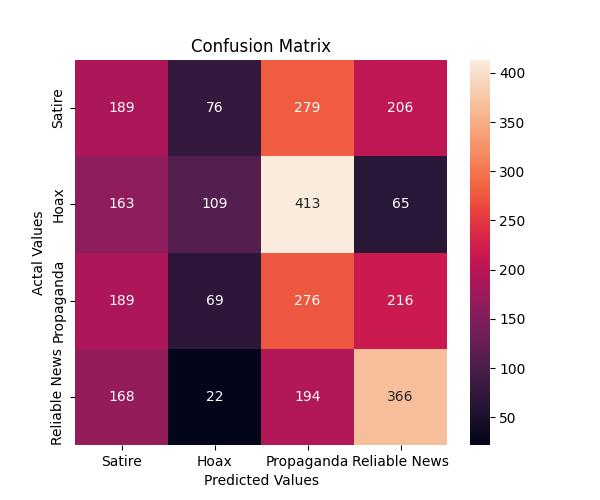
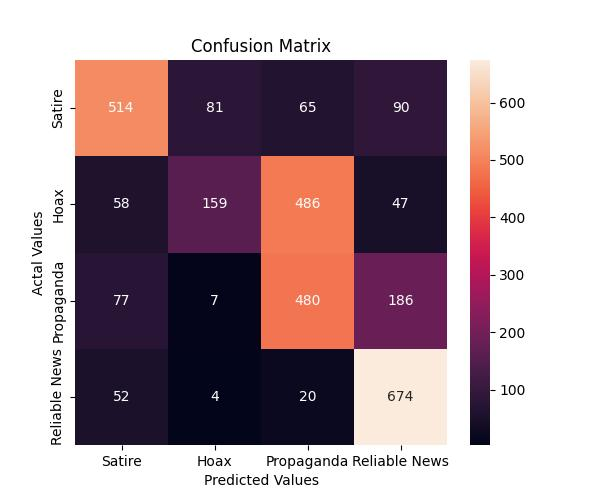
Add model acc and loss plots and f1 score to lstm

diff --git a/machineLearning/LSTM.py b/machineLearning/LSTM.py
@@ -11,13 +11,15 @@ from keras.callbacks import EarlyStopping
 from sklearn.metrics import confusion_matrix
 import matplotlib.pyplot as plt
 
+from sklearn.metrics import f1_score
+
 import pickle
 
 total_vocabulary = 100000
 max_sequence_length = 200
 embedding_dim = 100
 
-df = pd.read_csv('../dataset/prep.csv')
+df = pd.read_csv('prep.csv')
 tokenizer = Tokenizer(num_words=total_vocabulary, filters='!"#$%&()*+,-./:;<=>?@[\]^_`{|}~', lower=True)
 
 def preprocess(df, text_column_name):
@@ -48,11 +50,12 @@ def LSTM_model(X_train):
     return model
 
 def train_model(model, X_train, y_train):
-    epochs = 1
+    epochs = 200
     batch_size = 64
     print(X_train.shape)
     print(y_train.shape)
-    model.fit(X_train, y_train, epochs=epochs, batch_size=batch_size,validation_split=0.1,callbacks=[EarlyStopping(monitor='val_loss', patience=3, min_delta=0.0001)])
+    history = model.fit(X_train, y_train, epochs=epochs, batch_size=batch_size,validation_split=0.1,callbacks=[EarlyStopping(monitor='val_loss', patience=3, min_delta=0.0001)])
+    return history
 
 def one_hot_vec(y):
     y-=1
@@ -71,35 +74,21 @@ def main():
 
     model = LSTM_model(X_train)
 
-    train_model(model, X_train, y_train)
-
-    pickleFile = 'trainedLSTM.sav'
-    pickle.dump(model, open(pickleFile, 'wb'))
+    history = train_model(model, X_train, y_train)
 
     accr = model.evaluate(X_test, y_test)
     print('Test set\n  Loss: {:0.3f}\n  Accuracy: {:0.3f}'.format(accr[0],accr[1]))
 
-    y_pred_oh = model.predict(X_test)
-    y_pred = np.argmax(y_pred_oh, axis=1)+1
-    y_test_decoded = np.argmax(y_test, axis=1)+1
-    cm = confusion_matrix(y_test_decoded, y_pred)
-    cm_df = pd.DataFrame(cm,
-                         index = ['Satire','Hoax','Propaganda', 'Reliable News'], 
-                         columns = ['Satire','Hoax','Propaganda', 'Reliable News'])
-    plt.figure(figsize=(6,5))
-    sns.heatmap(cm_df, annot=True, fmt=".0f")
-    plt.title('Confusion Matrix')
-    plt.ylabel('Actal Values')
-    plt.xlabel('Predicted Values')
-    plt.savefig("LSTMcmEval.jpg")
-
-    dftest = pd.read_csv("../dataset/testprep.csv")
+    dftest = pd.read_csv("testprep.csv")
     Xt = tokenizer.texts_to_sequences(dftest["clean"].values)
     Xt = pad_sequences(Xt, maxlen=max_sequence_length)
 
     yt = dftest["y"]
     ytp_oh = model.predict(Xt)
     ytp = np.argmax(ytp_oh, axis=1)+1
+
+    score = f1_score(yt, ytp, average='macro')
+    print('score on validation = {}'.format(score))
 
     cm = confusion_matrix(yt, ytp)
     cm_df = pd.DataFrame(cm,
@@ -111,6 +100,25 @@ def main():
     plt.ylabel('Actal Values')
     plt.xlabel('Predicted Values')
     plt.savefig("LSTMcm.jpg")
+    plt.clf()
+
+    acc.plot(history.history['accuracy'])
+    acc.plot(history.history['val_accuracy'])
+    acc.title('model accuracy')
+    acc.ylabel('accuracy')
+    acc.xlabel('epoch')
+    acc.legend(['train', 'val'], loc='upper left')
+    acc.savefig("LSTM_modelacc.jpg")
+    plt.clf()
+
+    los.plot(history.history['loss'])
+    los.plot(history.history['val_loss'])
+    los.title('model loss')
+    los.ylabel('loss')
+    los.xlabel('epoch')
+    los.legend(['train', 'val'], loc='upper left')
+    los.savefig("LSTM_modelloss.jpg")
+    plt.clf()
 
 main()
 
